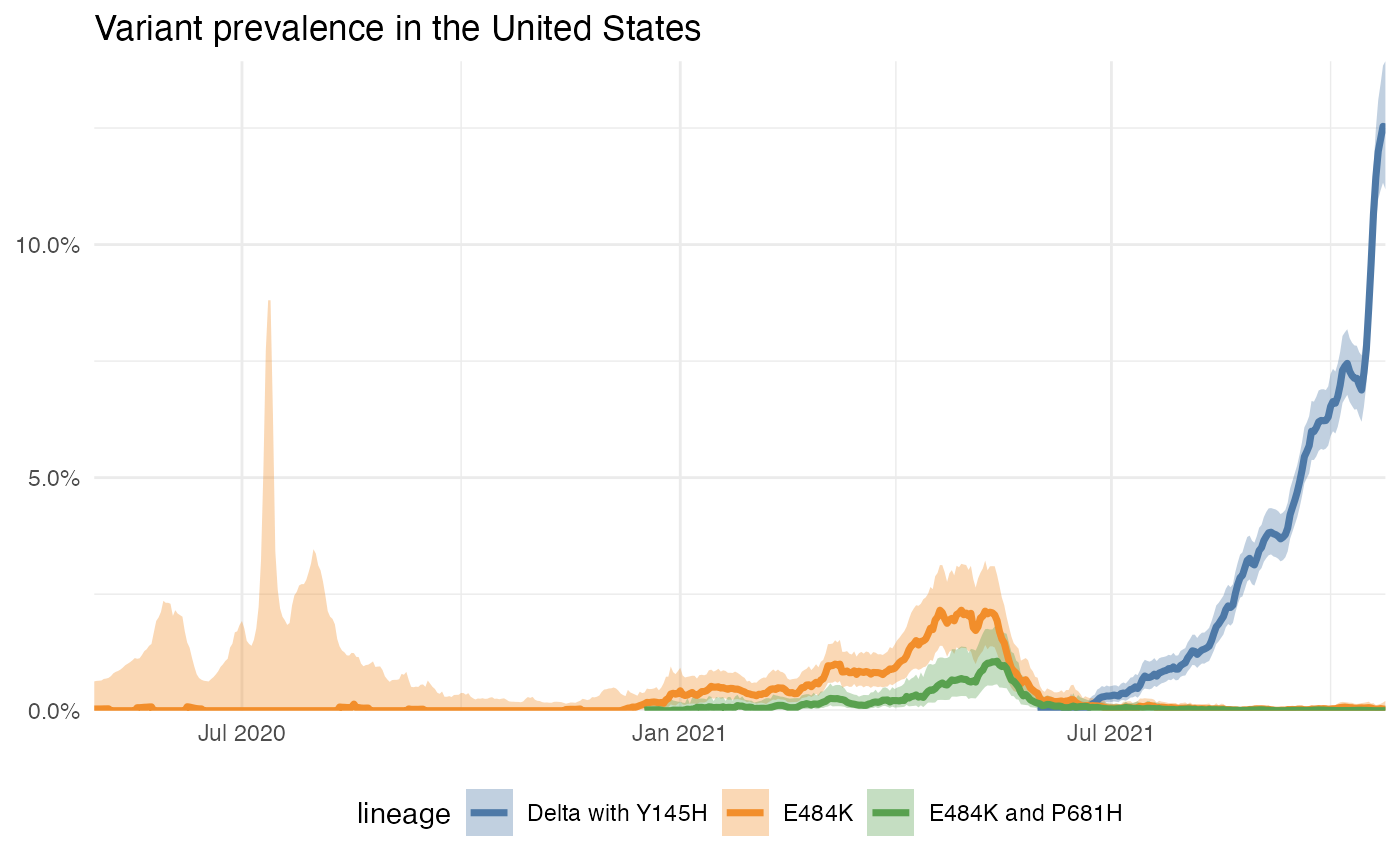
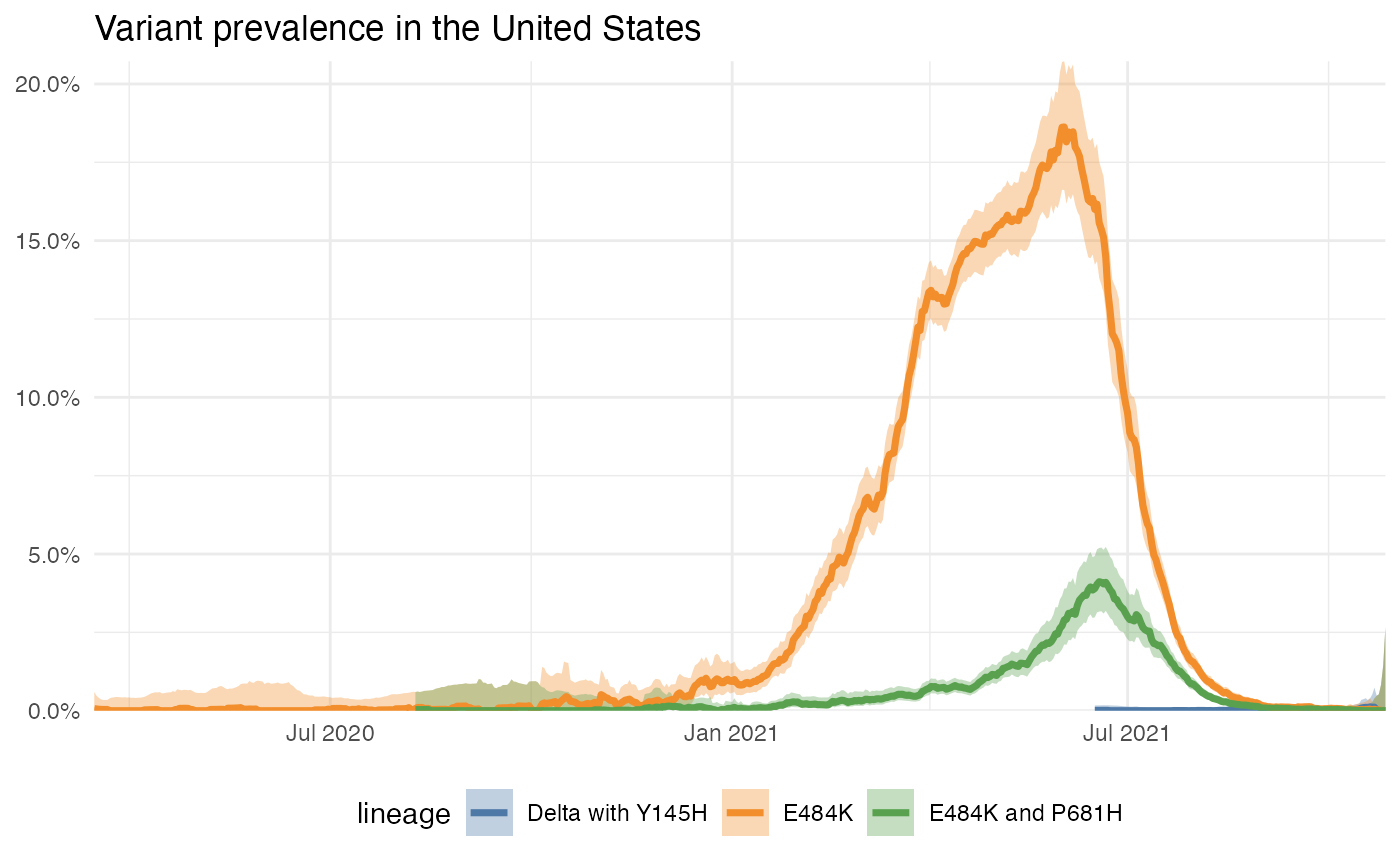
switch from UK to US in location example

diff --git a/docs/articles/locationtracker.html b/docs/articles/locationtracker.html
@@ -145,18 +145,18 @@
 <a href="#accessing-the-data-prevalence-of-all-circulating-lineages-in-the-u-s-" class="anchor"></a>Accessing the data: prevalence of all circulating lineages in the U.S.</h3>
 <p>To be able to discover which lineages are currently circulating around the U.S., let’s grab the prevalence of all the lineages in the U.S. over the past 60 days.</p>
 <div class="sourceCode" id="cb4"><pre class="downlit sourceCode r">
-<code class="sourceCode R"><span class="va">country</span> <span class="op">=</span> <span class="st">"United Kingdom"</span>
+<code class="sourceCode R"><span class="va">country</span> <span class="op">=</span> <span class="st">"United States"</span>
 <span class="va">usa_60d</span> <span class="op">=</span> <span class="fu"><a href="../reference/getAllLineagesByLocation.html">getAllLineagesByLocation</a></span><span class="op">(</span>location <span class="op">=</span> <span class="va">country</span>, other_threshold <span class="op">=</span> <span class="fl">0.03</span>, nday_threshold <span class="op">=</span> <span class="fl">5</span>, ndays <span class="op">=</span> <span class="fl">60</span><span class="op">)</span></code></pre></div>
 <div class="sourceCode" id="cb5"><pre class="downlit sourceCode r">
 <code class="sourceCode R"><span class="co"># This ends up being a large data frame. Let's take a look at what's inside:</span>
 <span class="va">usa_60d</span> <span class="op">%&gt;%</span> <span class="fu"><a href="https://pillar.r-lib.org/reference/glimpse.html">glimpse</a></span><span class="op">(</span><span class="op">)</span></code></pre></div>
-<pre><code>## Rows: 2,086
+<pre><code>## Rows: 2,996
 ## Columns: 6
-## $ date               &lt;date&gt; 2020-01-29, 2020-01-30, 2020-01-31, 2020-02-01, 20…
-## $ total_count        &lt;int&gt; 4, 0, 0, 0, 0, 4, 0, 1, 0, 1, 3, 4, 0, 0, 1, 4, 4, …
-## $ lineage_count      &lt;int&gt; 4, 0, 0, 0, 0, 4, 0, 1, 0, 1, 3, 4, 0, 0, 1, 4, 4, …
+## $ date               &lt;date&gt; 2020-01-27, 2020-01-28, 2020-01-29, 2020-01-30, 20…
+## $ total_count        &lt;int&gt; 1, 2, 4, 0, 1, 0, 1, 0, 0, 0, 1, 0, 1, 0, 1, 1, 0, …
+## $ lineage_count      &lt;int&gt; 1, 2, 4, 0, 1, 0, 1, 0, 0, 0, 1, 0, 1, 0, 1, 1, 0, …
 ## $ lineage            &lt;chr&gt; "other", "other", "other", "other", "other", "other…
-## $ prevalence         &lt;dbl&gt; 1, 0, 0, 0, 0, 1, 0, 1, 0, 1, 1, 1, 0, 0, 1, 1, 1, …
+## $ prevalence         &lt;dbl&gt; 1, 1, 1, 0, 1, 0, 1, 0, 0, 0, 1, 0, 1, 0, 1, 1, 0, …
 ## $ prevalence_rolling &lt;dbl&gt; 1, 1, 1, 1, 1, 1, 1, 1, 1, 1, 1, 1, 1, 1, 1, 1, 1, …</code></pre>
 <p>You can get explanations of each of the variables by looking at the data dictionary (<code><a href="../reference/genomicsDataDictionary.html">outbreakinfo::genomicsDataDictionary()</a></code>). Let’s look at how prevalent each of the different Pango lineages are in the U.S.:</p>
 <div class="sourceCode" id="cb7"><pre class="downlit sourceCode r">
@@ -175,29 +175,34 @@
 </tr></thead>
 <tbody>
 <tr class="odd">
-<td align="left">ay.4</td>
+<td align="left">b.1.617.2</td>
 <td align="right">0</td>
 <td align="right">1.0000000</td>
 </tr>
 <tr class="even">
-<td align="left">b.1.617.2</td>
+<td align="left">ay.44</td>
 <td align="right">0</td>
-<td align="right">0.2133293</td>
+<td align="right">0.2152284</td>
 </tr>
 <tr class="odd">
-<td align="left">ay.4.2</td>
+<td align="left">ay.25</td>
 <td align="right">0</td>
-<td align="right">0.1212888</td>
+<td align="right">0.1583756</td>
 </tr>
 <tr class="even">
-<td align="left">ay.5</td>
+<td align="left">ay.3</td>
 <td align="right">0</td>
-<td align="right">0.0530895</td>
+<td align="right">0.1239006</td>
 </tr>
 <tr class="odd">
-<td align="left">ay.43</td>
+<td align="left">ay.39</td>
 <td align="right">0</td>
-<td align="right">0.0445724</td>
+<td align="right">0.0552655</td>
+</tr>
+<tr class="even">
+<td align="left">ay.47</td>
+<td align="right">0</td>
+<td align="right">0.0337997</td>
 </tr>
 </tbody>
 </table>
@@ -276,7 +281,7 @@
 ## $ proportion_ci_lower   &lt;dbl&gt; 2.582495e-04, 2.075738e-04, 1.789930e-04, 1.5733…
 ## $ proportion_ci_upper   &lt;dbl&gt; 0.011126638, 0.008952861, 0.007724806, 0.0067930…
 ## $ lineage               &lt;chr&gt; "B.1.1.7 OR Q.1 OR Q.2 OR Q.3 OR Q.4 OR Q.5 OR Q…
-## $ location              &lt;chr&gt; "United Kingdom", "United Kingdom", "United King…</code></pre>
+## $ location              &lt;chr&gt; "United States", "United States", "United States…</code></pre>
 </div>
 <div id="plotting-specific-variants-over-time" class="section level3">
 <h3 class="hasAnchor">
